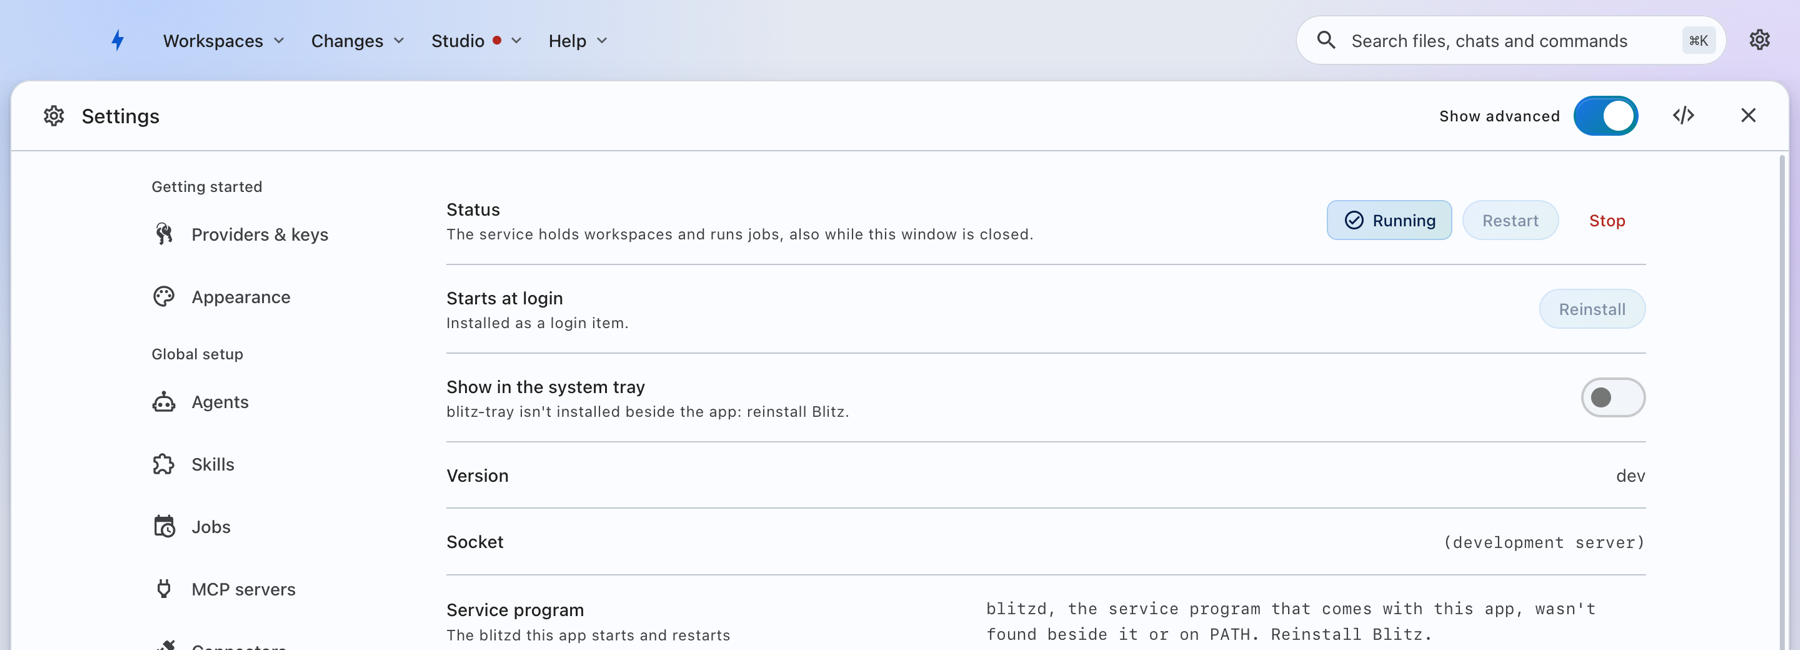
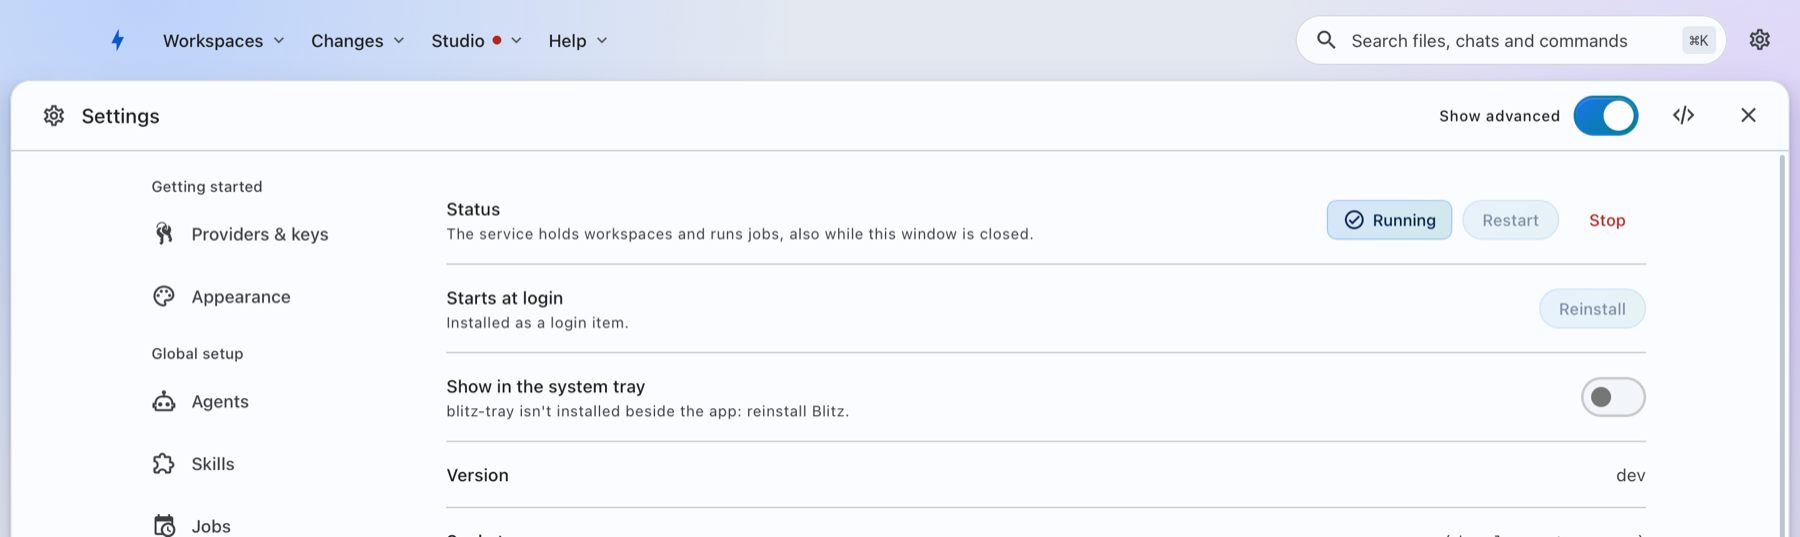
Docs: dark screenshots beside the light ones, shown with the theme
Every desktop screenshot has a dark twin (name-dark.png). On the site a
render hook writes both and custom.css shows the one that matches the
theme: the toggle's choice, or on Auto the system's. In the app's guide,
docPicture takes the twin while the window is dark. Tests check every
screenshot has its twin.

diff --git a/apps/desktop/web/src/docs/DocsDrawer.tsx b/apps/desktop/web/src/docs/DocsDrawer.tsx
@@ -57,6 +57,18 @@ function Tree({ node, at, open, depth = 0 }: { node: DocNode; at: string; open: 
   );
 }
 
+/** The window's theme (html[data-theme], theme.ts), kept in step as it changes. */
+function useWindowTheme(): string {
+  const read = () => document.documentElement.dataset.theme ?? "light";
+  const [theme, setTheme] = useState(read);
+  useEffect(() => {
+    const watch = new MutationObserver(() => setTheme(read()));
+    watch.observe(document.documentElement, { attributes: true, attributeFilter: ["data-theme"] });
+    return () => watch.disconnect();
+  }, []);
+  return theme;
+}
+
 /** The docs viewer, open on a page. */
 export function DocsDrawer({ initial, onClose }: { initial: DocsAt; onClose: () => void }) {
   const [docs, setDocs] = useState<Docs | null>(null);
@@ -66,6 +78,8 @@ export function DocsDrawer({ initial, onClose }: { initial: DocsAt; onClose: () 
   // In a narrow window the navigation folds behind Contents (app.css).
   const [navOpen, setNavOpen] = useState(false);
   const pane = useRef<HTMLDivElement>(null);
+  // Screenshots follow the theme: a dark twin in dark mode (docPicture).
+  const theme = useWindowTheme();
   useEffect(() => {
     void loadAppDocs().then(setDocs);
   }, []);
@@ -108,13 +122,13 @@ export function DocsDrawer({ initial, onClose }: { initial: DocsAt; onClose: () 
       docs && page
         ? {
             link: (href) => docLink(page, href, new Set(docs.pages.keys())),
-            picture: (src) => docPicture(page, src, docs.pictures),
+            picture: (src) => docPicture(page, src, docs.pictures, theme === "dark"),
             open: go,
           }
         : null,
     // go reads index; a new page or step makes new links
     // eslint-disable-next-line react-hooks/exhaustive-deps
-    [docs, page, index],
+    [docs, page, index, theme],
   );
   const hits = docs && query.trim() ? searchDocs([...docs.pages.values()], query) : null;
   // Where the guide is, for next time: the page, and the scroll as it moves.

diff --git a/apps/desktop/web/src/docs/docs.test.ts b/apps/desktop/web/src/docs/docs.test.ts
@@ -58,6 +58,12 @@ describe("the docs the app carries", () => {
     }
   });
 
+  it("has a dark twin for every desktop screenshot", () => {
+    const shots = Object.keys(docPictures).filter((p) => p.startsWith("images/desktop/") && !p.endsWith("-dark.png"));
+    expect(shots.length).toBeGreaterThan(0);
+    for (const p of shots) expect(docPictures[p.replace(/\.png$/, "-dark.png")], p).toBeTruthy();
+  });
+
   it("carries every picture a page shows", () => {
     expect(docPicture(pages.get("products/desktop")!, "../../images/desktop.png", docPictures)).toBeTruthy();
     for (const page of pages.values()) {
@@ -110,6 +116,11 @@ describe("pages and links", () => {
   it("leaves web pictures alone", () => {
     expect(docPicture(page, "https://example.com/x.png", { "x.png": "u" })).toBeUndefined();
     expect(docPicture(page, "/images/a.png", { "images/a.png": "u" })).toBe("u");
+    // Dark mode takes a picture's dark twin when there is one.
+    const twins = { "images/a.png": "u", "images/a-dark.png": "d" };
+    expect(docPicture(page, "/images/a.png", twins, true)).toBe("d");
+    expect(docPicture(page, "/images/a.png", twins, false)).toBe("u");
+    expect(docPicture(page, "/images/b.png", { "images/b.png": "b" }, true)).toBe("b");
   });
   it("orders a tree by weight, then title", () => {
     const t = docTree([parsePage("_index.md", "# Home"), parsePage("b/_index.md", "---\ntitle: B\nweight: 2\n---\n"), parsePage("a/_index.md", "---\ntitle: A\nweight: 2\n---\n"), parsePage("c/_index.md", "---\ntitle: C\nweight: 1\n---\n"), parsePage("a/x.md", "# X")]);

diff --git a/docs/layouts/_default/_markup/render-image.html b/docs/layouts/_default/_markup/render-image.html
@@ -1,0 +1,29 @@
+{{- /*
+  Copyright 2026 Retail Cortex
+
+  Licensed under the Apache License, Version 2.0 (the "License");
+  you may not use this file except in compliance with the License.
+  You may obtain a copy of the License at
+
+      http://www.apache.org/licenses/LICENSE-2.0
+
+  Unless required by applicable law or agreed to in writing, software
+  distributed under the License is distributed on an "AS IS" BASIS,
+  WITHOUT WARRANTIES OR CONDITIONS OF ANY KIND, either express or implied.
+  See the License for the specific language governing permissions and
+  limitations under the License.
+
+  Adapted from the Geekdoc theme's render-image.html (MIT).
+*/ -}}
+{{- /*
+  The desktop app's screenshots (images/desktop/name.png) each have a dark
+  twin, name-dark.png: both are written, and static/custom.css shows the one
+  that matches the site's theme. Other pictures render as the theme does.
+*/ -}}
+{{- $src := .Destination -}}
+{{- if and (strings.Contains $src "images/desktop/") (strings.HasSuffix $src ".png") (not (strings.HasSuffix $src "-dark.png")) -}}
+<img class="shot-light" src="{{ $src | safeURL }}" alt="{{ .Text }}"{{ with .Title }} title="{{ . }}"{{ end }} />
+<img class="shot-dark" src="{{ replaceRE `\.png$` "-dark.png" $src | safeURL }}" alt="{{ .Text }}"{{ with .Title }} title="{{ . }}"{{ end }} />
+{{- else -}}
+<img src="{{ $src | safeURL }}" alt="{{ .Text }}"{{ with .Title }} title="{{ . }}"{{ end }} />
+{{- end -}}

diff --git a/docs/static/custom.css b/docs/static/custom.css
@@ -1,0 +1,37 @@
+/*
+ * Copyright 2026 Retail Cortex
+ *
+ * Licensed under the Apache License, Version 2.0 (the "License");
+ * you may not use this file except in compliance with the License.
+ * You may obtain a copy of the License at
+ *
+ *     http://www.apache.org/licenses/LICENSE-2.0
+ *
+ * Unless required by applicable law or agreed to in writing, software
+ * distributed under the License is distributed on an "AS IS" BASIS,
+ * WITHOUT WARRANTIES OR CONDITIONS OF ANY KIND, either express or implied.
+ * See the License for the specific language governing permissions and
+ * limitations under the License.
+ */
+
+/* The desktop app's screenshots in the site's theme (render-image.html):
+   the dark one in dark mode, chosen or, on Auto, the system's. */
+.shot-dark {
+  display: none;
+}
+html.color-toggle-dark .shot-light {
+  display: none;
+}
+html.color-toggle-dark .shot-dark {
+  display: inline;
+}
+@media (prefers-color-scheme: dark) {
+  html.color-toggle-auto .shot-light,
+  html:not(.color-toggle-light):not(.color-toggle-dark):not(.color-toggle-auto) .shot-light {
+    display: none;
+  }
+  html.color-toggle-auto .shot-dark,
+  html:not(.color-toggle-light):not(.color-toggle-dark):not(.color-toggle-auto) .shot-dark {
+    display: inline;
+  }
+}

diff --git a/apps/desktop/web/src/docs/index.ts b/apps/desktop/web/src/docs/index.ts
@@ -125,11 +125,17 @@ export function docLink(page: DocPage, href: string, carried: Set<string>): DocT
   return { kind: "url", href: siteURL + (target ?? "") + (anchor ? `#${anchor}` : "") };
 }
 
-/** A picture in page from the pictures the app carries (by the site path it's served at), if it's one. */
-export function docPicture(page: DocPage, src: string, pictures: Record<string, string>): string | undefined {
+/**
+ * A picture in page from the pictures the app carries (by the site path it's
+ * served at), if it's one. In dark mode a picture's dark twin (name-dark.png,
+ * as the desktop app's screenshots have) takes its place, as on the site.
+ */
+export function docPicture(page: DocPage, src: string, pictures: Record<string, string>, dark = false): string | undefined {
   if (/^[a-z]+:/i.test(src)) return undefined;
   const target = src.startsWith("/") ? src.slice(1) : resolveFrom(page.path, src);
-  return target === null ? undefined : pictures[target];
+  if (target === null) return undefined;
+  const twin = dark && !target.endsWith("-dark.png") ? pictures[target.replace(/\.png$/, "-dark.png")] : undefined;
+  return twin ?? pictures[target];
 }
 
 /** A search hit: the page, and a line of its text around the match. */
